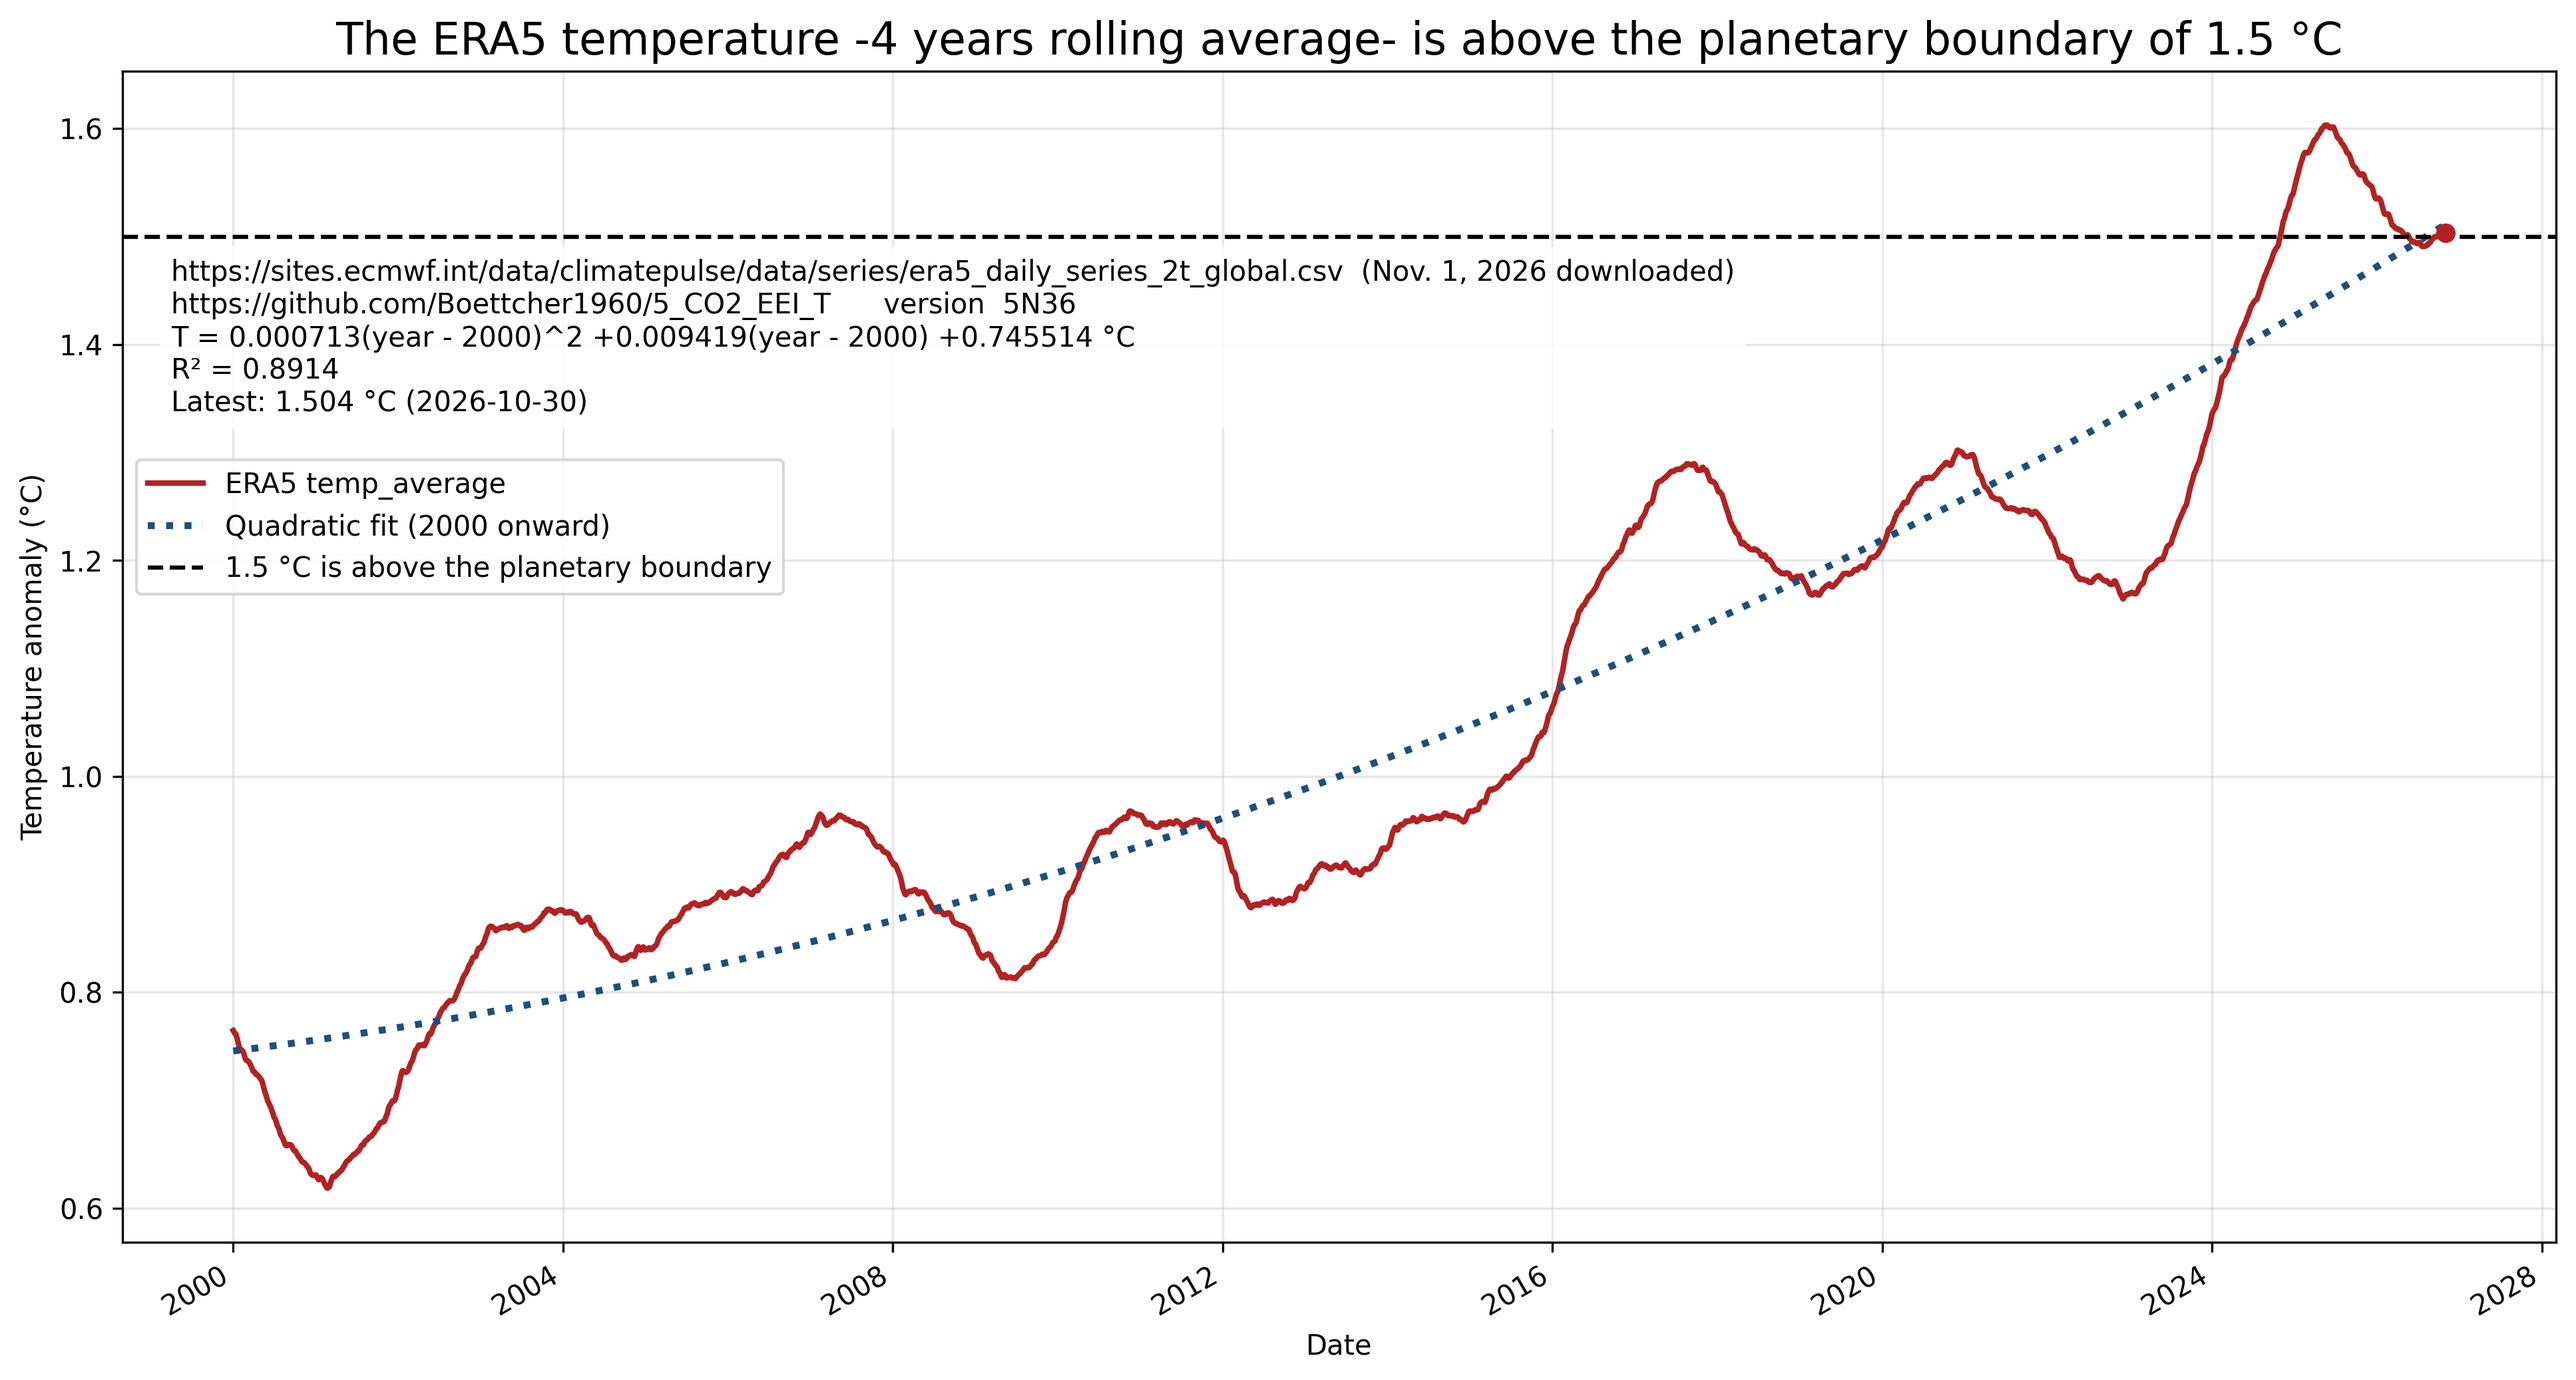
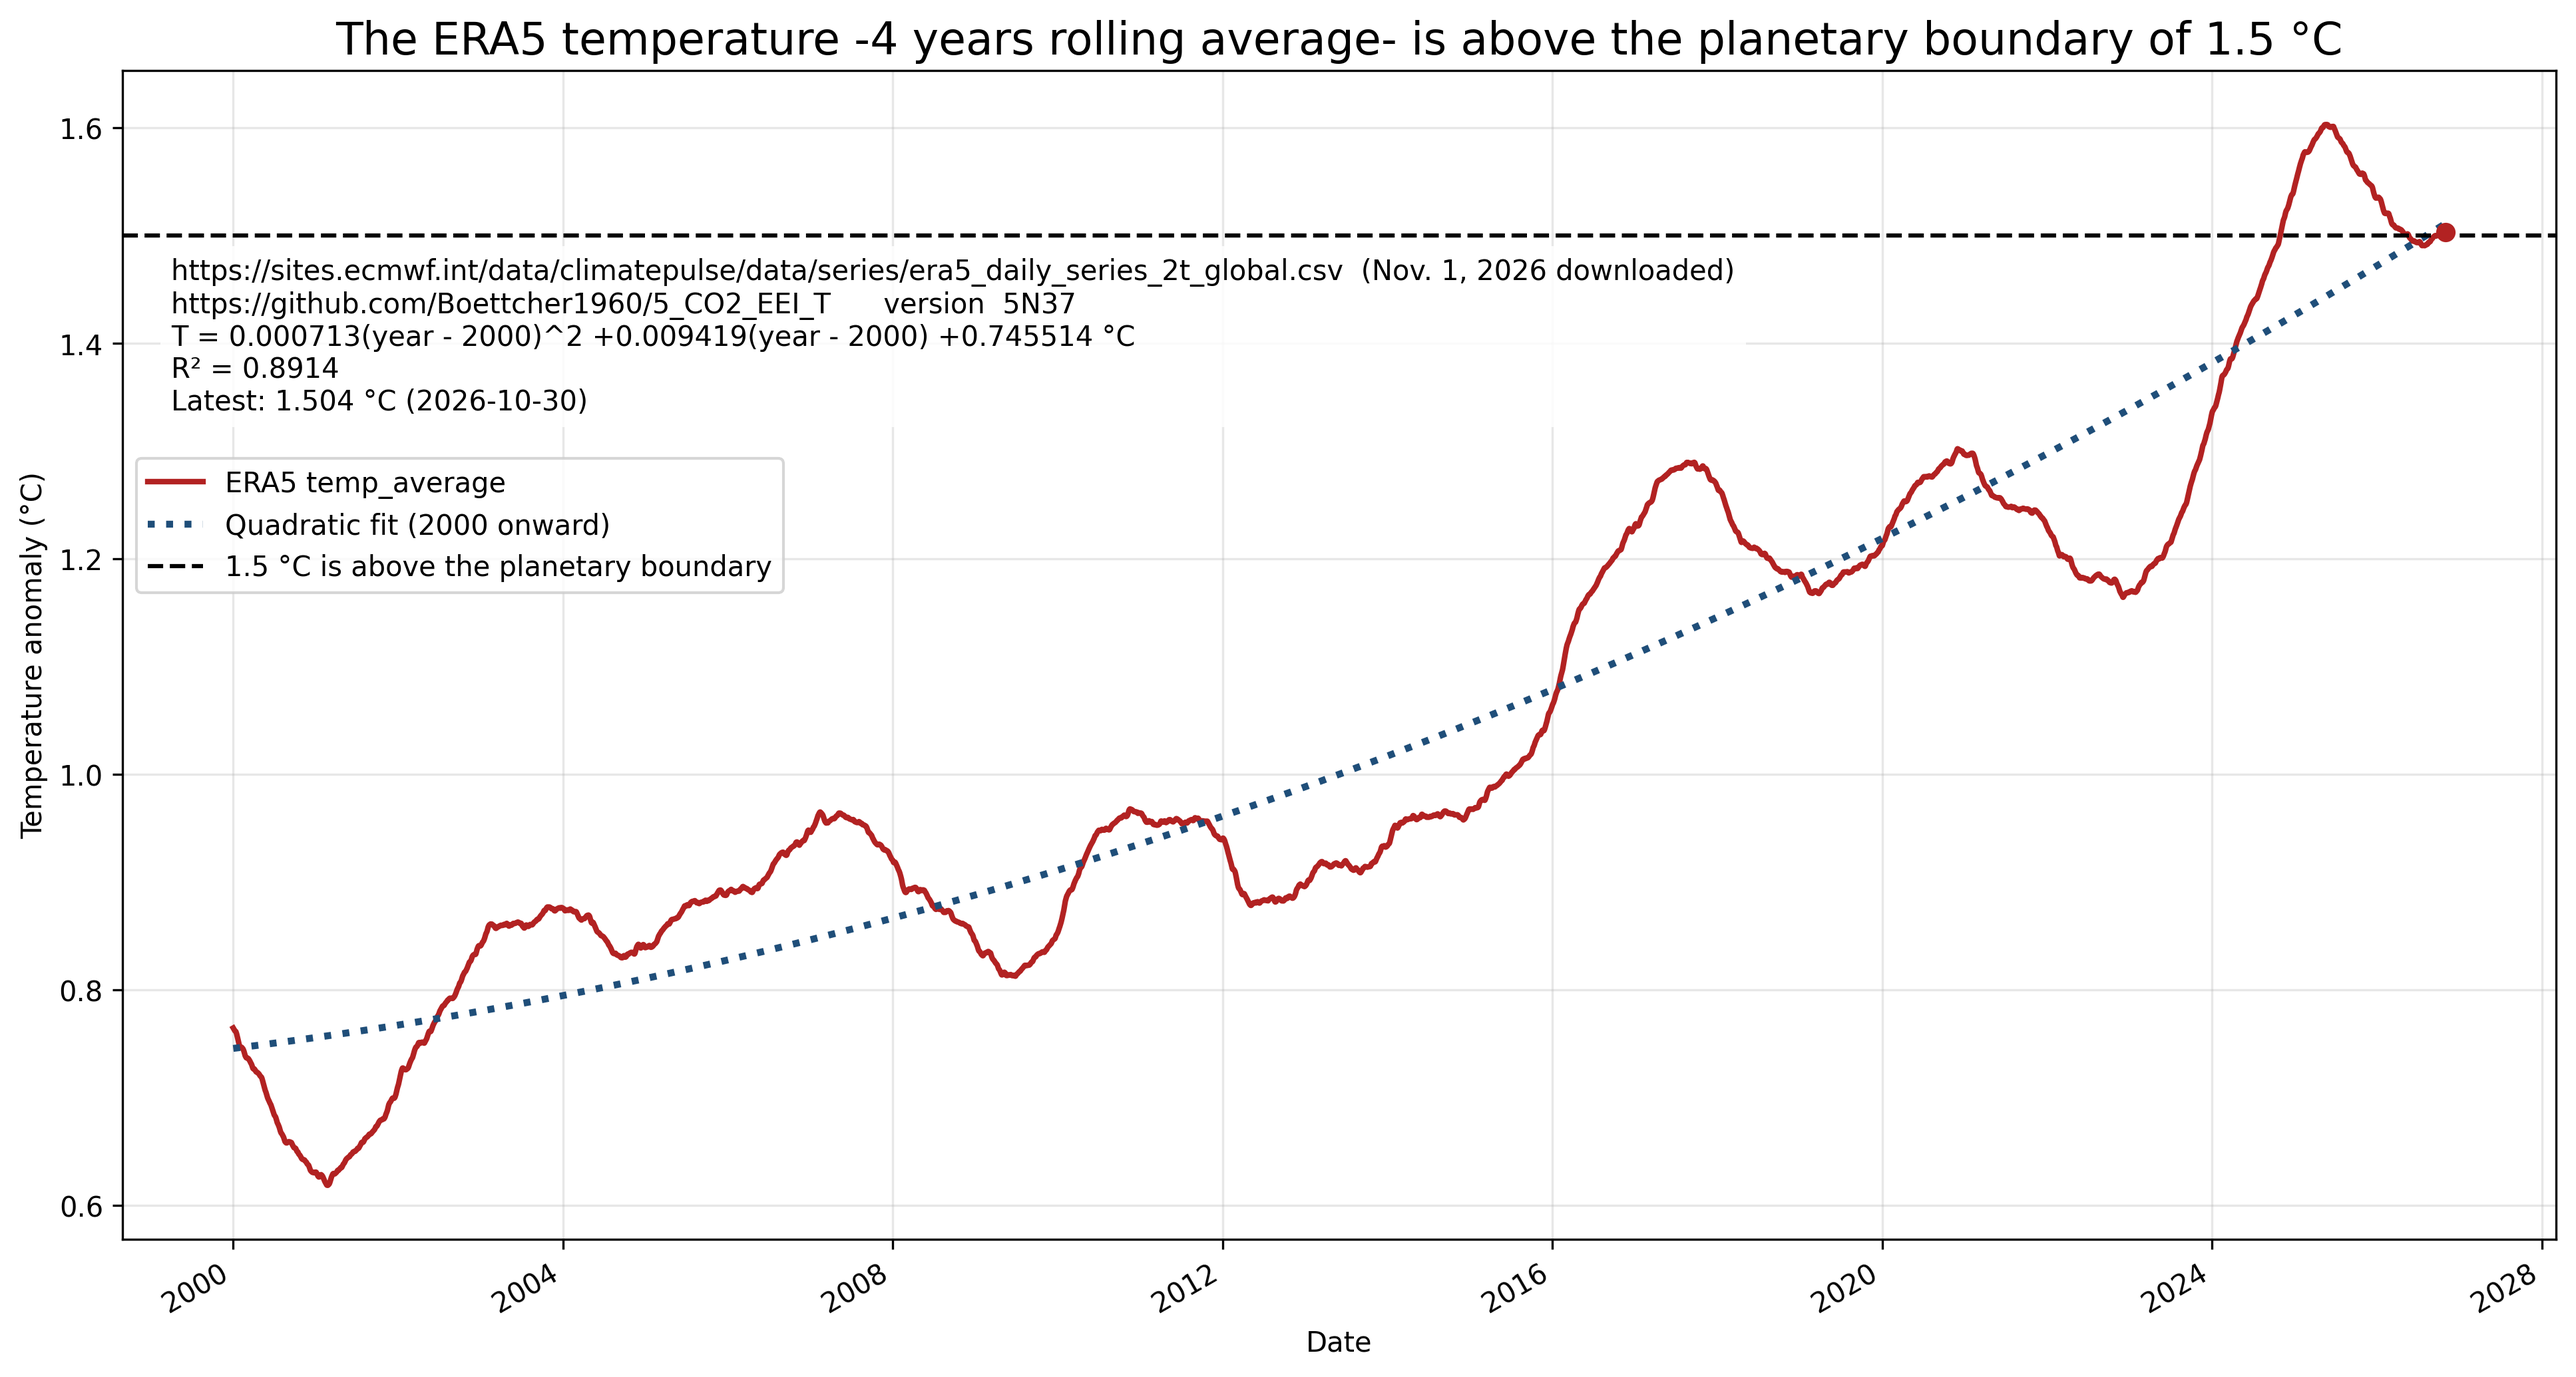
5N37

diff --git a/config.py b/config.py
@@ -86,6 +86,7 @@ play69_AA_in = "work/69a_AA_Albedo_anomaly_2026_08.txt"  # 69.13  config.py   pl
 plot71_temperature = 0 # 2 3 5
 plot72_AESS_T = 0 # 2 , 3 
 plot73_ECS_T = 0 # 3
+global plot74_GIS_T 
 plot74_GIS_T = 2 # 2, 3,4,5,6,7 =right y axis
 linear_41_75 = 4 # 3 4 5
 plot76_my_T = 0 # 3, 5
@@ -145,8 +146,8 @@ c71 = "red"
 c71 =  "#AB263590"
 c72 =  "#31BD9590"
 c73 =  "red"
-c74 = "red"
-#c74 = "#9522AA90"
+global c74
+c74 = "#9522AA90"
 c75 = "#371EA484"
 c76 = "#13DF2F84"
 c77 = "#34753D84"
@@ -787,10 +788,10 @@ if figure404 == 409:
       print(f"config__450  {figure404}", text400)
    print_debug = 2
 
-def figure_10():
+def figure_10(figure100):
    # used in Substack: Global Warming EEI sets the World on Fire #28
    text100 = "Figure 10: Global Warming ... possible Temperatures in ..2050...  EEI, Hansen..."
-
+   figure100 = 110
    plot74_GIS_T = 2 # Hansen GISS temperature
    text74 = "measured Temperature in °C from  giss.nasa.gov   Hansen+0.3°C                             74"  
    c74 =  "#2EDF1B90"
@@ -831,7 +832,7 @@ def figure_10():
 
    if print_debug > 9:
       # print(f"config__433  {plot28_E_T}", text28)
-      print(f"config__450  {figure100}", text100)
-   
+      print(f"config__835  {figure100}", text100)
+   return figure100
 
    

diff --git a/plotting.py b/plotting.py
@@ -321,10 +321,10 @@ def plot_1_axe(ax1):
 def plot_6_remove_axe1(axes,yr6_delete):
     for i, ax in enumerate(plt.gcf().get_axes()):
         ylabel = ax.get_ylabel()
-        if print_debug > 9:
+        if print_debug > 19:
            print(f"plot_325: Axis {i}: yaxis side = {ax.yaxis.get_ticks_position()}, label = '{ylabel}'")
     if yr6_delete == 9:
-       print("plot_274: no right y axes in figure")
+       print("plot_327: no right y axes in figure")
        for i in range(1, len(axes)): # remove Axis 3, 4
            axes[i].yaxis.set_ticks([])  # Remove tick numbers
            axes[i].set_yticklabels([])  # Remove tick labels

diff --git a/main.py b/main.py
@@ -1,5 +1,5 @@
 # main.py
-v = "5N36" #   def main_figure_1():
+v = "5N37" #   def main_figure_1():
 #
 #
 #
@@ -302,12 +302,10 @@ def main():
         run_optional_figures()
         return
     if figure100 > 0:
-        figure100 = 10
-        figure_10()
+        figure100 = 105
+        figure100 = figure_10(figure100)
         main_figure_1()
-        figure100 = 104
-        main_figure_1()
-        figure_10()
+        
     
     run_optional_figures()
 
